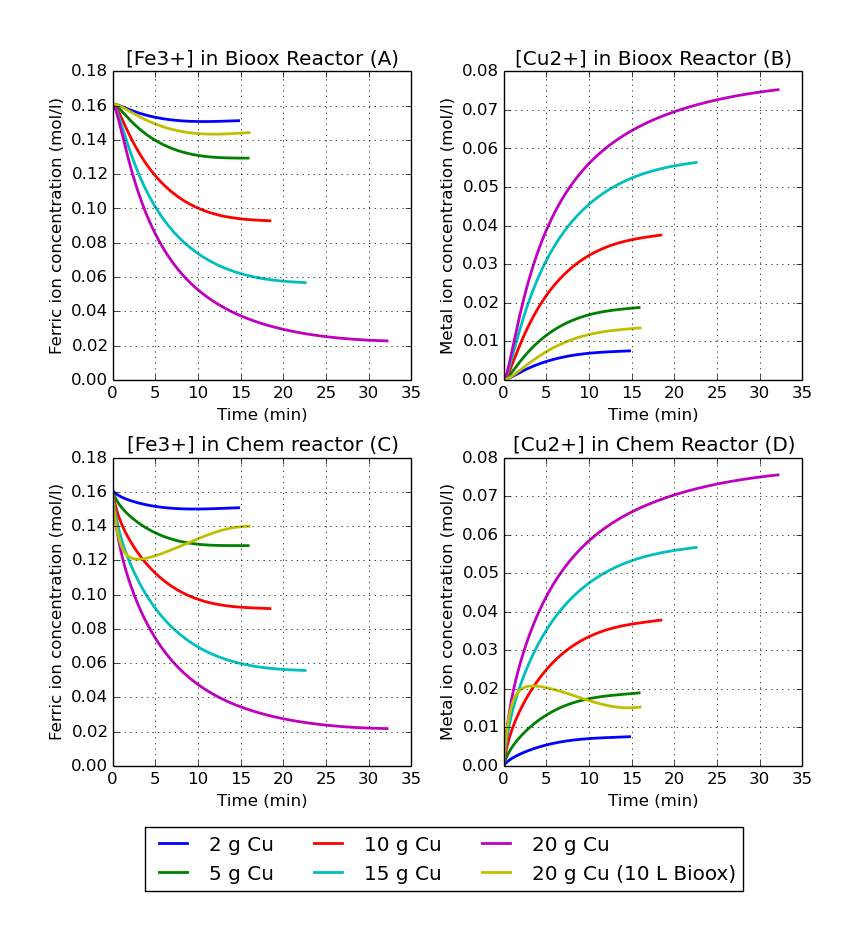
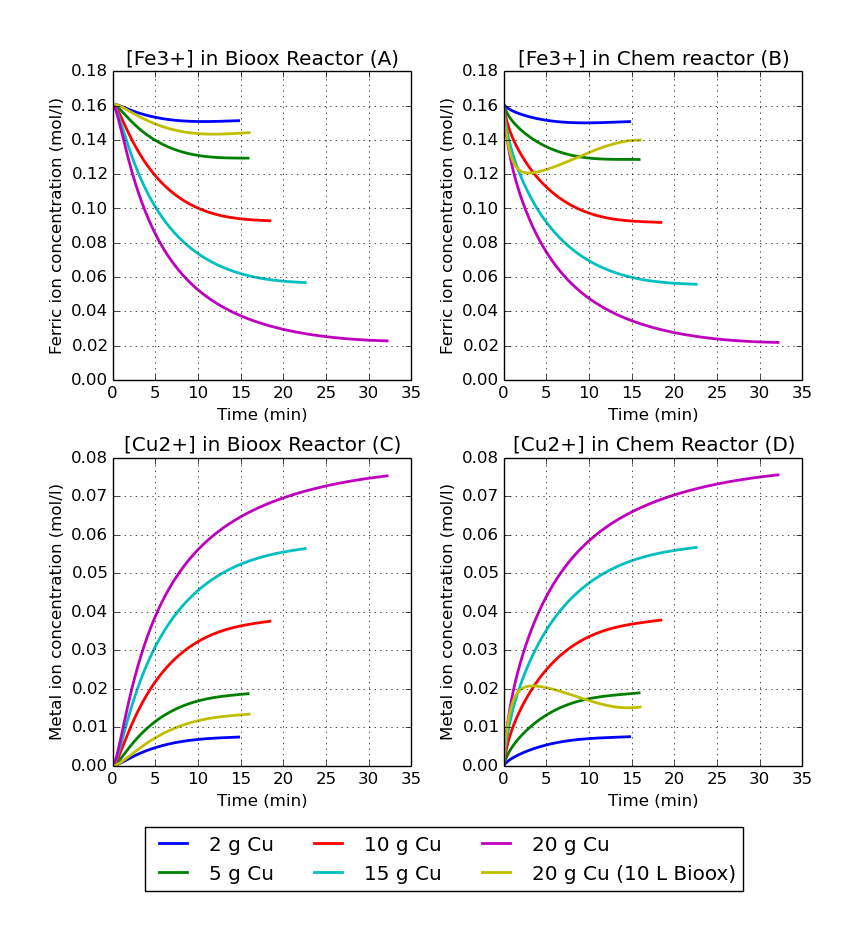
replotting

diff --git a/masters/calculations/management/commands/sensitivity_analysis.py b/masters/calculations/management/commands/sensitivity_analysis.py
@@ -206,12 +206,29 @@ class Command(BaseCommand):
         # fig.savefig('simulation_figures/'+self.simulate+'/ferric_ion_concentration_biooxidation_reactor.png',
         #         bbox_inches='tight')
 
-        # fig = plt.figure(2, figsize=(8, 8))
-        # fig.suptitle("Ferric ion Concentration in Biooxidation Reactor")
+
         fig_subplot = fig.add_subplot(222)
         fig_subplot.set_xlabel("Time (min)")
+        fig_subplot.set_ylabel("Ferric ion concentration (mol/l)")
+        fig_subplot.set_ylim(0, 0.18)
+        fig_subplot.set_title("[Fe3+] in Chem reactor (B)")
+        fig_subplot.grid('on')
+
+        for i, item in enumerate(analysis_list):
+            line, = fig_subplot.plot(ferric_chem[item[1]]["time"], ferric_chem[item[1]]["ferric"], label=item[1])
+            line.set_linewidth(2)
+        # plt.legend(ncol=2, mode="expand", loc=3, borderaxespad=0., bbox_to_anchor=(0., 1.02, 1., .102))
+        # plt.legend(loc='center left', bbox_to_anchor=(1, 0.5))
+        # fig.savefig('simulation_figures/'+self.simulate+'/ferric_ion_concentration_chemical_reactor.png',
+        #             bbox_inches='tight')
+
+
+        # fig = plt.figure(2, figsize=(8, 8))
+        # fig.suptitle("Ferric ion Concentration in Biooxidation Reactor")
+        fig_subplot = fig.add_subplot(223)
+        fig_subplot.set_xlabel("Time (min)")
         fig_subplot.set_ylabel("Metal ion concentration (mol/l)")
-        fig_subplot.set_title("[Cu2+] in Bioox Reactor (B)")
+        fig_subplot.set_title("[Cu2+] in Bioox Reactor (C)")
         # fig_subplot.set_ylim(0, 0.18)
         fig_subplot.grid('on')
 
@@ -235,20 +252,7 @@ class Command(BaseCommand):
 
         # fig = plt.figure(3, figsize=(8, 8))
         # fig.suptitle("Ferric ion concentration in Metal dissolution reactor")
-        fig_subplot = fig.add_subplot(223)
-        fig_subplot.set_xlabel("Time (min)")
-        fig_subplot.set_ylabel("Ferric ion concentration (mol/l)")
-        fig_subplot.set_ylim(0, 0.18)
-        fig_subplot.set_title("[Fe3+] in Chem reactor (C)")
-        fig_subplot.grid('on')
 
-        for i, item in enumerate(analysis_list):
-            line, = fig_subplot.plot(ferric_chem[item[1]]["time"], ferric_chem[item[1]]["ferric"], label=item[1])
-            line.set_linewidth(2)
-        # plt.legend(ncol=2, mode="expand", loc=3, borderaxespad=0., bbox_to_anchor=(0., 1.02, 1., .102))
-        # plt.legend(loc='center left', bbox_to_anchor=(1, 0.5))
-        # fig.savefig('simulation_figures/'+self.simulate+'/ferric_ion_concentration_chemical_reactor.png',
-        #             bbox_inches='tight')
 
         # fig = plt.figure(4, figsize=(8, 8))
         # fig.suptitle("Cupric Ion Concentration in Metal Dissolution Reactor")
